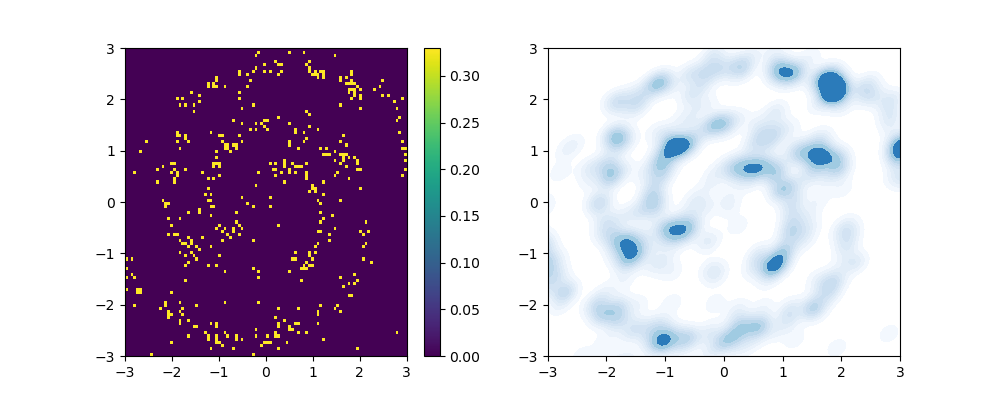
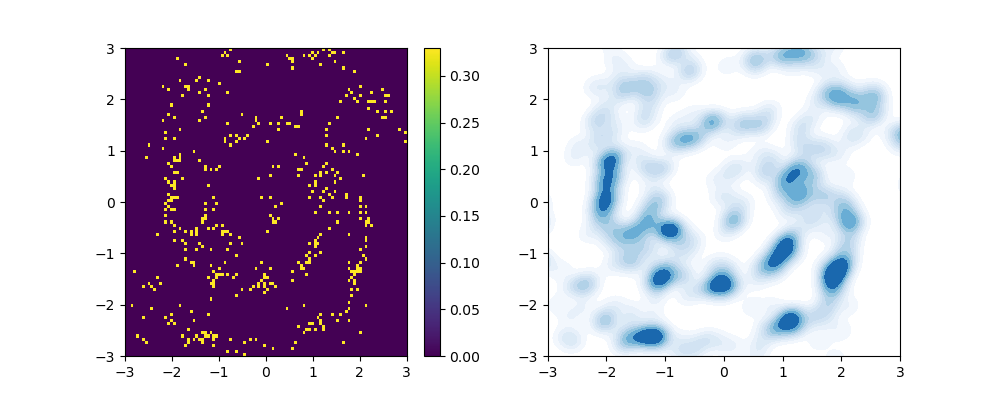
generic commit

diff --git a/scripts/transport/k_diffusion.py b/scripts/transport/k_diffusion.py
@@ -340,7 +340,7 @@ class CondTransportKernel(nn.Module):
 
 
     def init_Z(self):
-        Z = torch.zeros(self.Y_eta.shape, device=self.device, dtype=self.dtype)
+        Z = 1e-15 + torch.zeros(self.Y_eta.shape, device=self.device, dtype=self.dtype)
         return Z
 
 
@@ -432,10 +432,10 @@ class CondTransportKernel(nn.Module):
         Z_mean = self.Z_mean
         Z_var = self.Z_var
 
-        reg_1 = torch.trace(Z_mean.T @ self.fit_kXXmean_inv @ Z_mean)
-        reg_2 =  torch.trace(Z_var.T @ self.fit_kXXvar_inv @ Z_var)
-        #reg_1 =  torch.trace(Z_mean.T @ self.fit_kXXmean_inv @ self.norm_vec(Z_mean))
-        #reg_2 =  torch.trace(Z_var.T @ self.fit_kXXvar_inv @ self.norm_vec(Z_var))
+        #reg_1 = torch.trace(Z_mean.T @ self.fit_kXXmean_inv @ Z_mean)
+        #reg_2 =  torch.trace(Z_var.T @ self.fit_kXXvar_inv @ Z_var)
+        reg_1 =  torch.trace(Z_mean.T @ self.fit_kXXmean_inv @ self.norm_vec(Z_mean))
+        reg_2 =  torch.trace(Z_var.T @ self.fit_kXXvar_inv @ self.norm_vec(Z_var))
         return  self.reg_lambda * (reg_1 + reg_2)
 
 
@@ -957,7 +957,7 @@ def test_panel(plot_steps = False, approx_path = False, N = 10000, test_name = '
                     pass
 
 def run():
-    test_panel(N=10000, n_transports=100, k=1, approx_path=False, test_name='test3', test_keys=['spiral'])
+    test_panel(N=500, n_transports=100, k=1, approx_path=False, test_name='test3', test_keys=['spiral'])
 
     #test_panel(N=2500, n_transports=100 , k=1, approx_path=False, test_name='exp', test_keys=['spheres'])
     #test_panel(N=5000, n_transports=60, k=10, approx_path=False, test_name='lv_test_med2', test_keys=['lv'])
